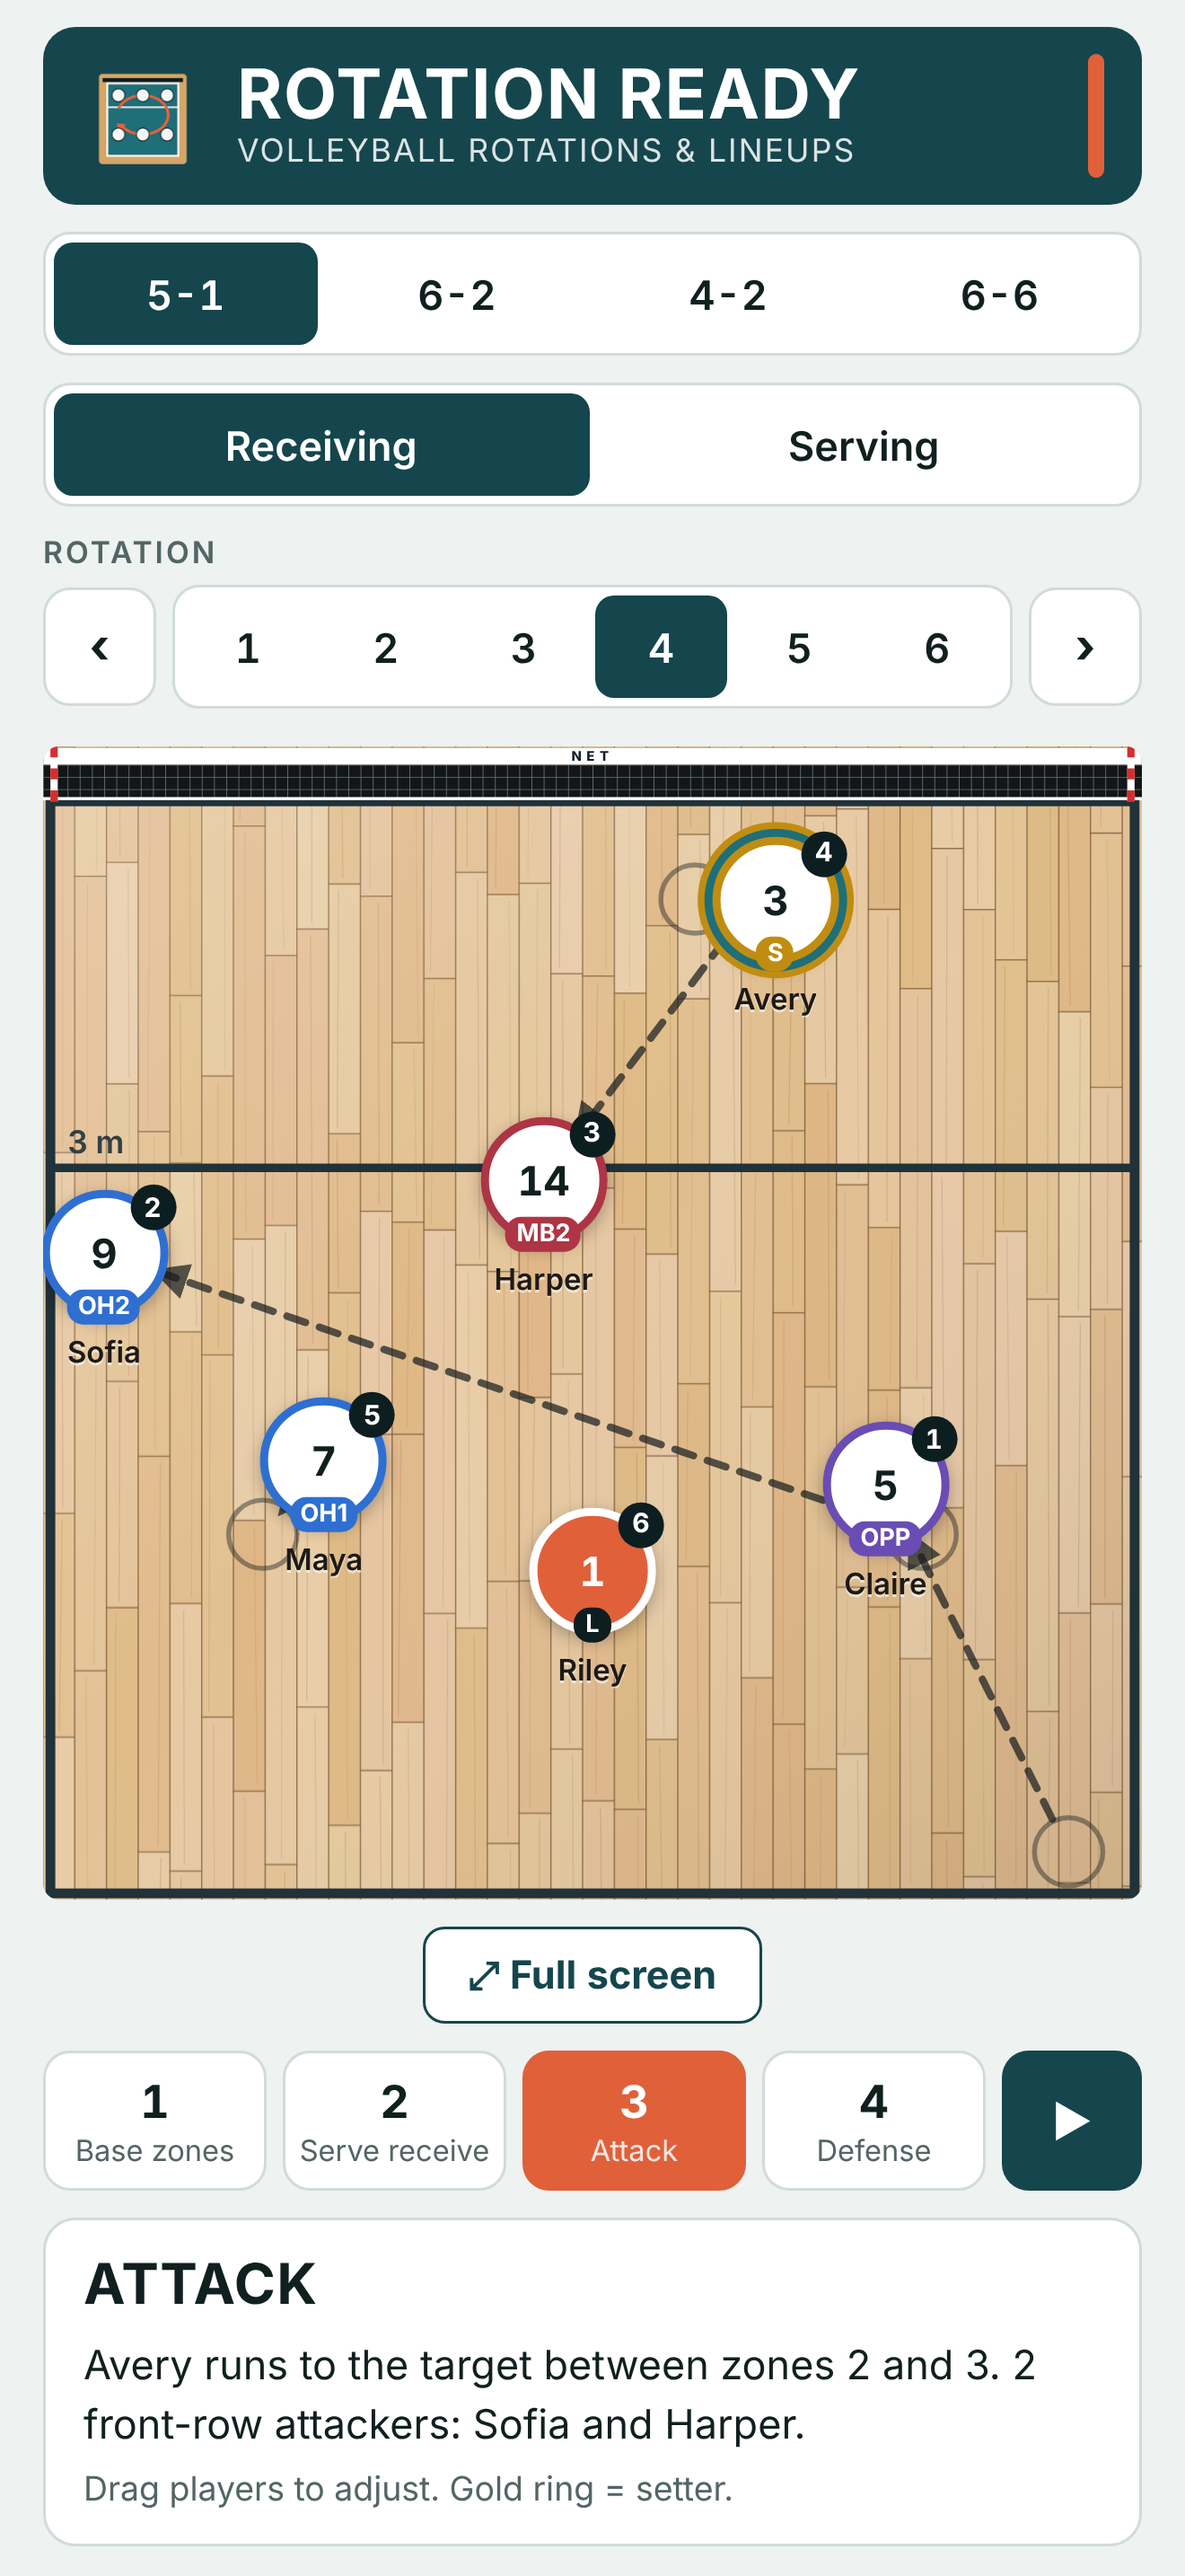
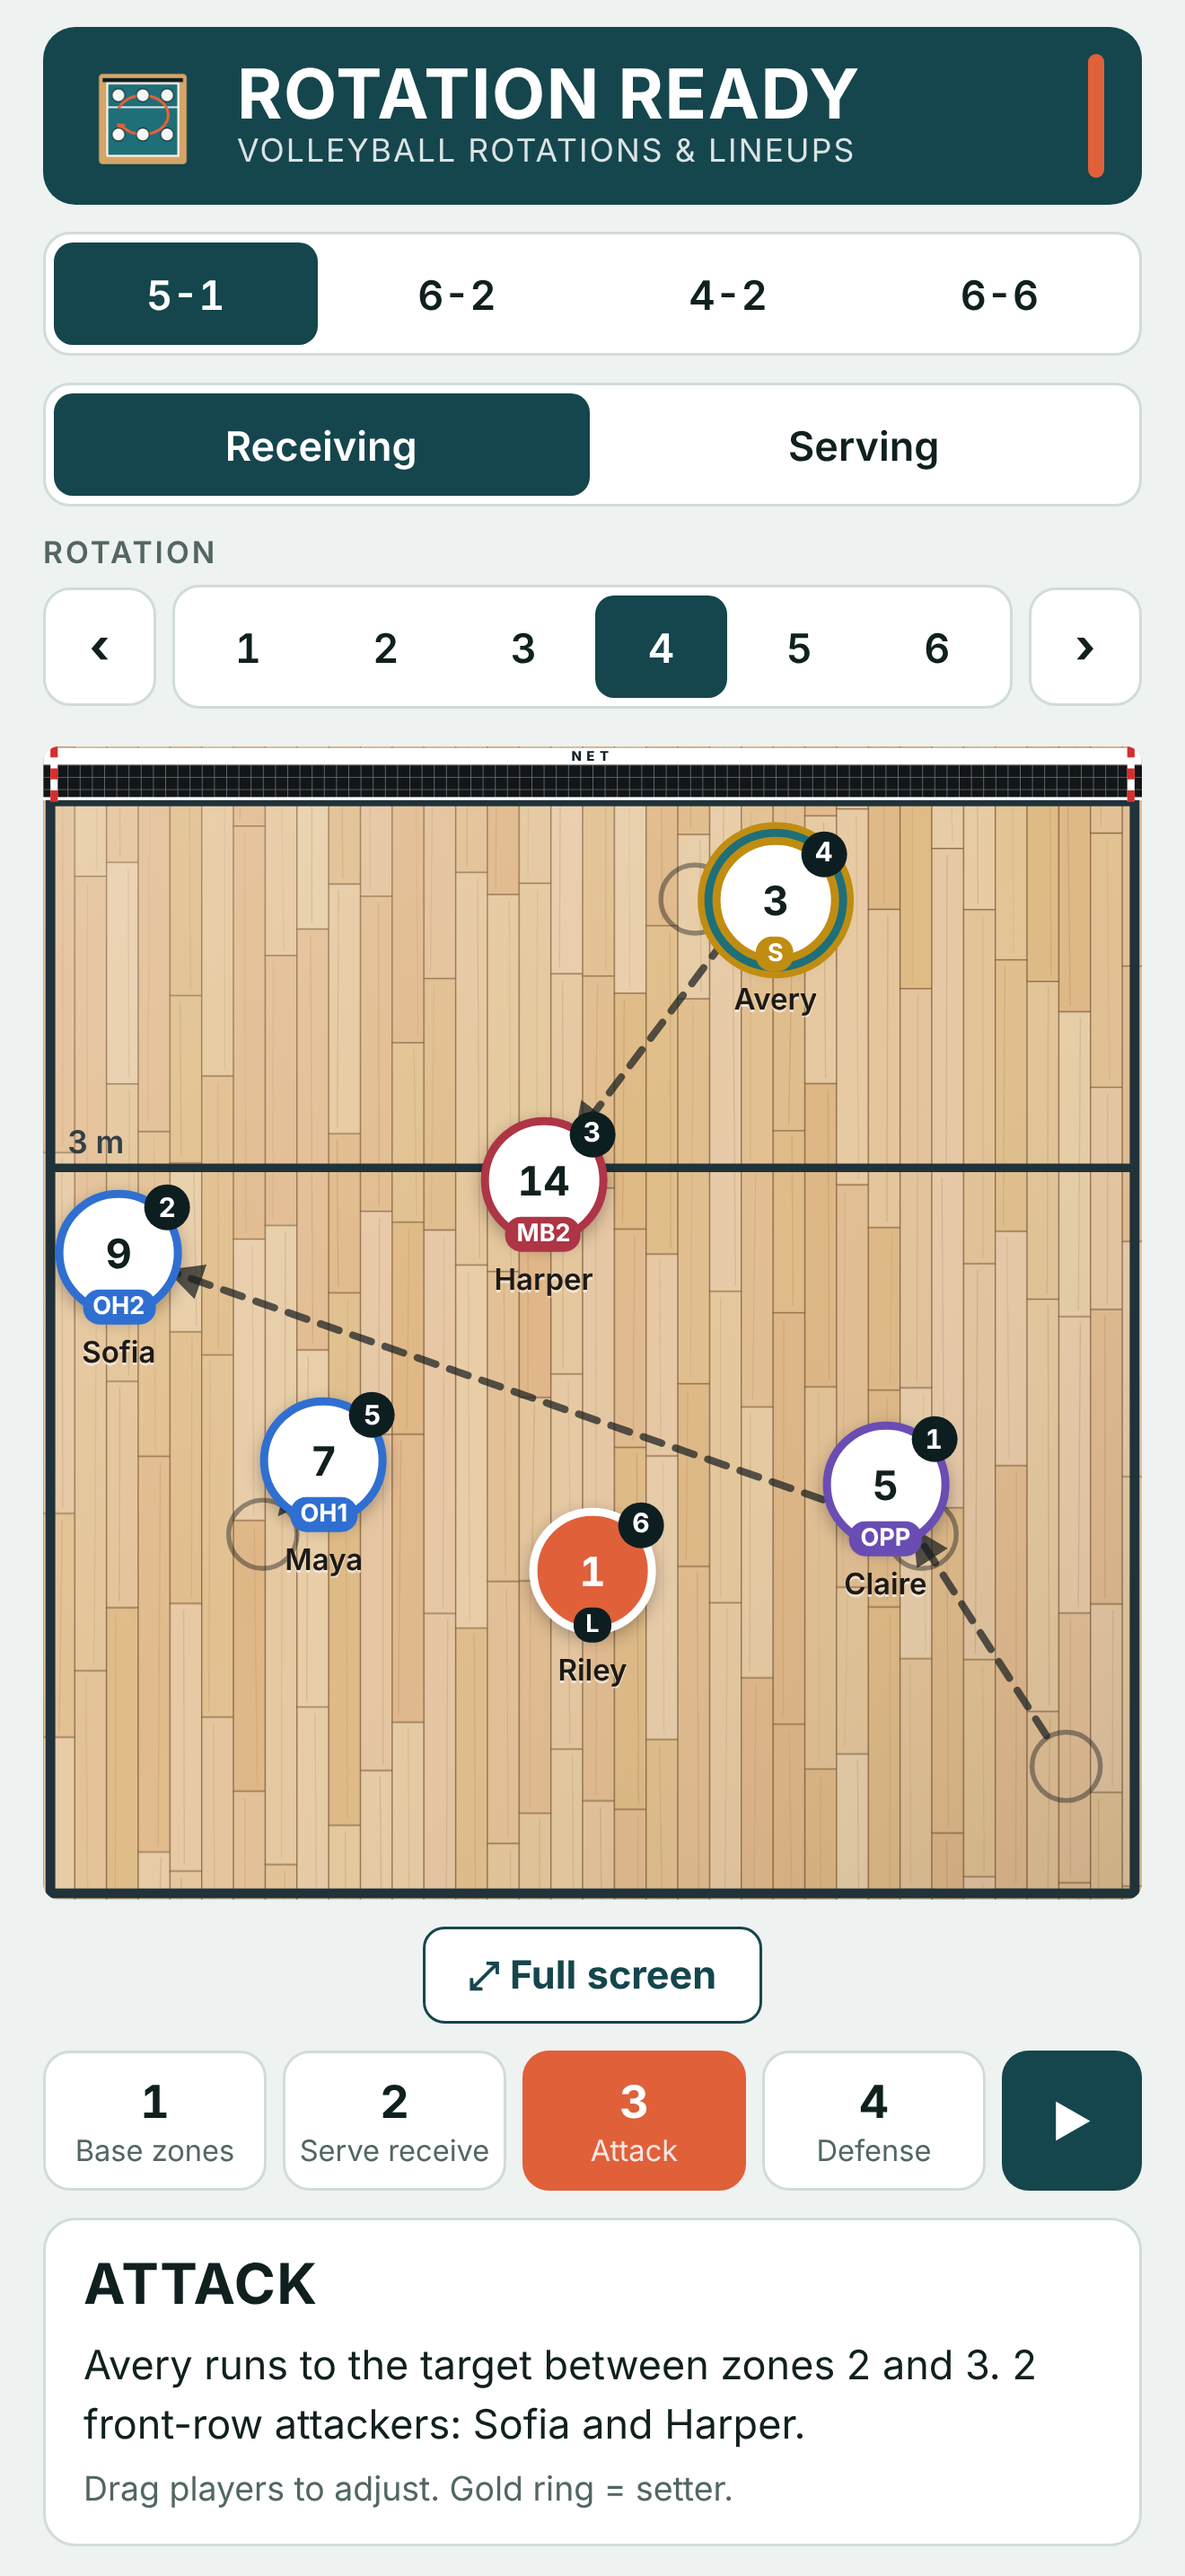
Keep players inside the court during every step
Claude-Session: https://claude.ai/code/session_01XjvadqE4PRY1XXpJhyDyr2

diff --git a/www/index.html b/www/index.html
@@ -400,8 +400,14 @@ function basePos(step,c){
   return pos;
 }
 const vkey=step=>[S.sys,S.libero?1:0,S.mode,S.rot,step].join('|');
+/* keep every player who is on the court fully inside the lines, including their name label */
+const IN={x0:.62,x1:8.38,y0:.55,y1:7.9};
+function keepIn(pos,c){const srv=S.mode==='serve'&&c.server?c.server.id:null;
+  for(const id in pos){if(id===srv&&pos[id][1]>9)continue;const q=pos[id];
+    q[0]=Math.min(IN.x1,Math.max(IN.x0,q[0]));q[1]=Math.min(IN.y1,Math.max(IN.y0,q[1]));}
+  return pos;}
 function getPos(step,c){
-  const pos=basePos(step,c),o=S.ov[vkey(step)];
+  const pos=keepIn(basePos(step,c),c),o=S.ov[vkey(step)];
   if(o)for(const id in o)if(pos[id])pos[id]=[...o[id]];
   return pos;
 }

diff --git a/www/sw.js b/www/sw.js
@@ -1,5 +1,5 @@
 // Bump VERSION whenever index.html changes so phones pick up the update.
-const VERSION = "rotation-ready-v4";
+const VERSION = "rotation-ready-v5";
 const FILES = ["./", "index.html", "manifest.webmanifest", "icon-180.png", "icon-192.png", "icon-512.png"];
 self.addEventListener("install", e => {
   e.waitUntil(caches.open(VERSION).then(c => c.addAll(FILES)).then(() => self.skipWaiting()));
